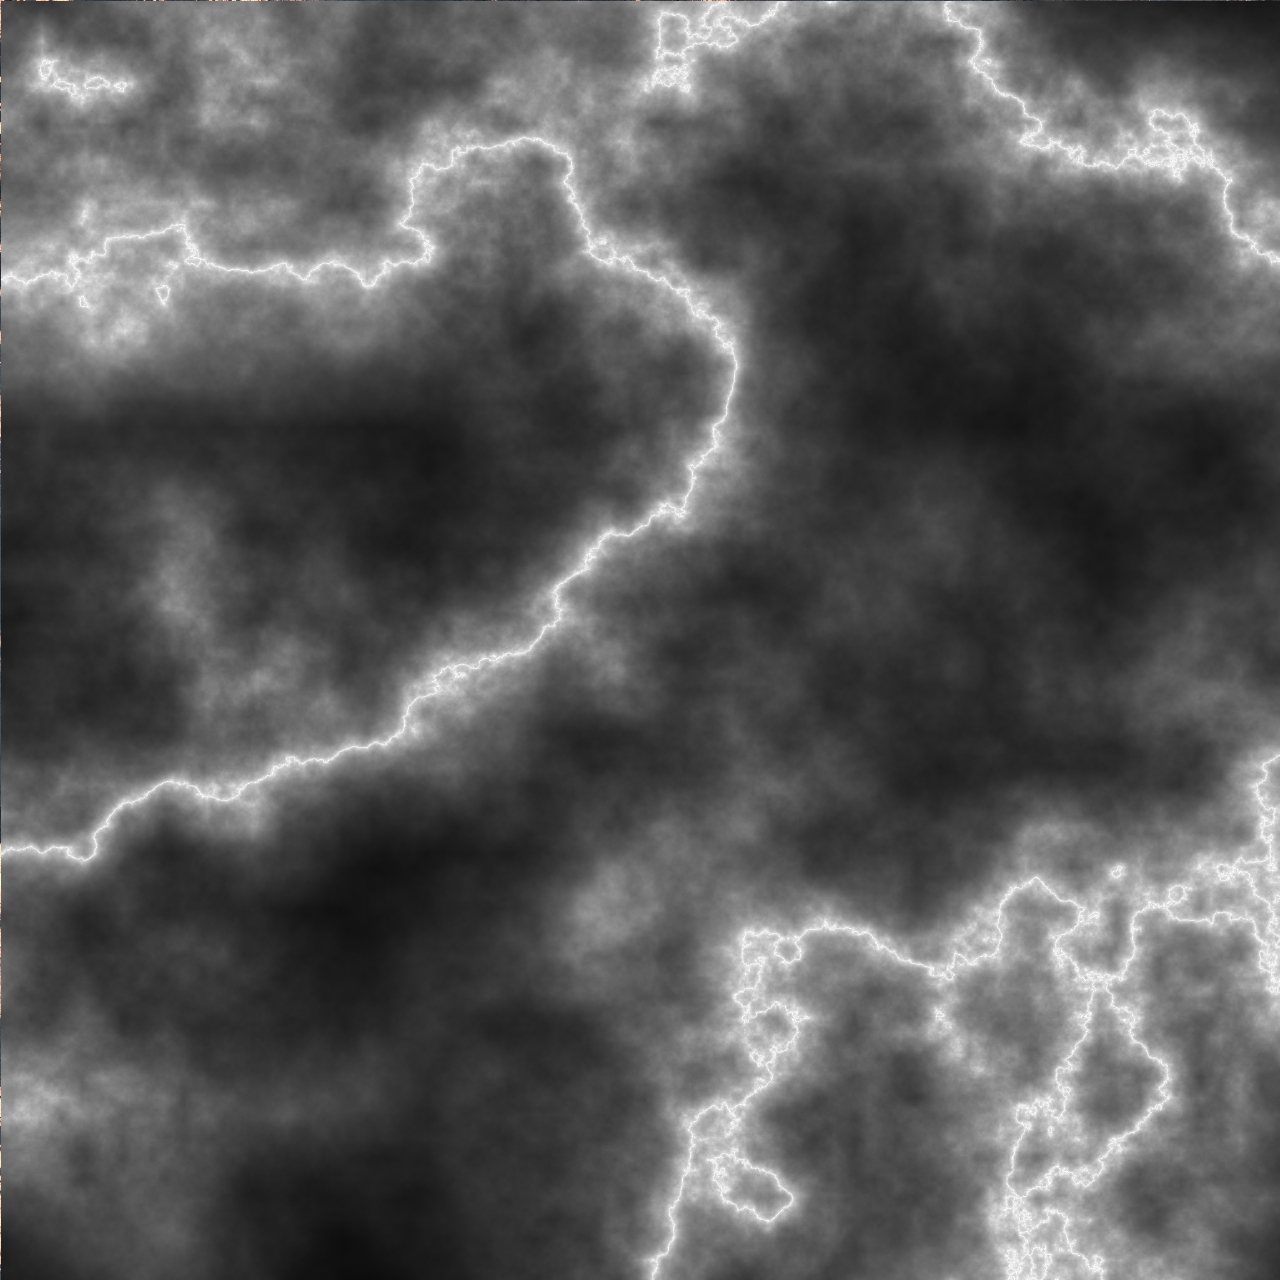
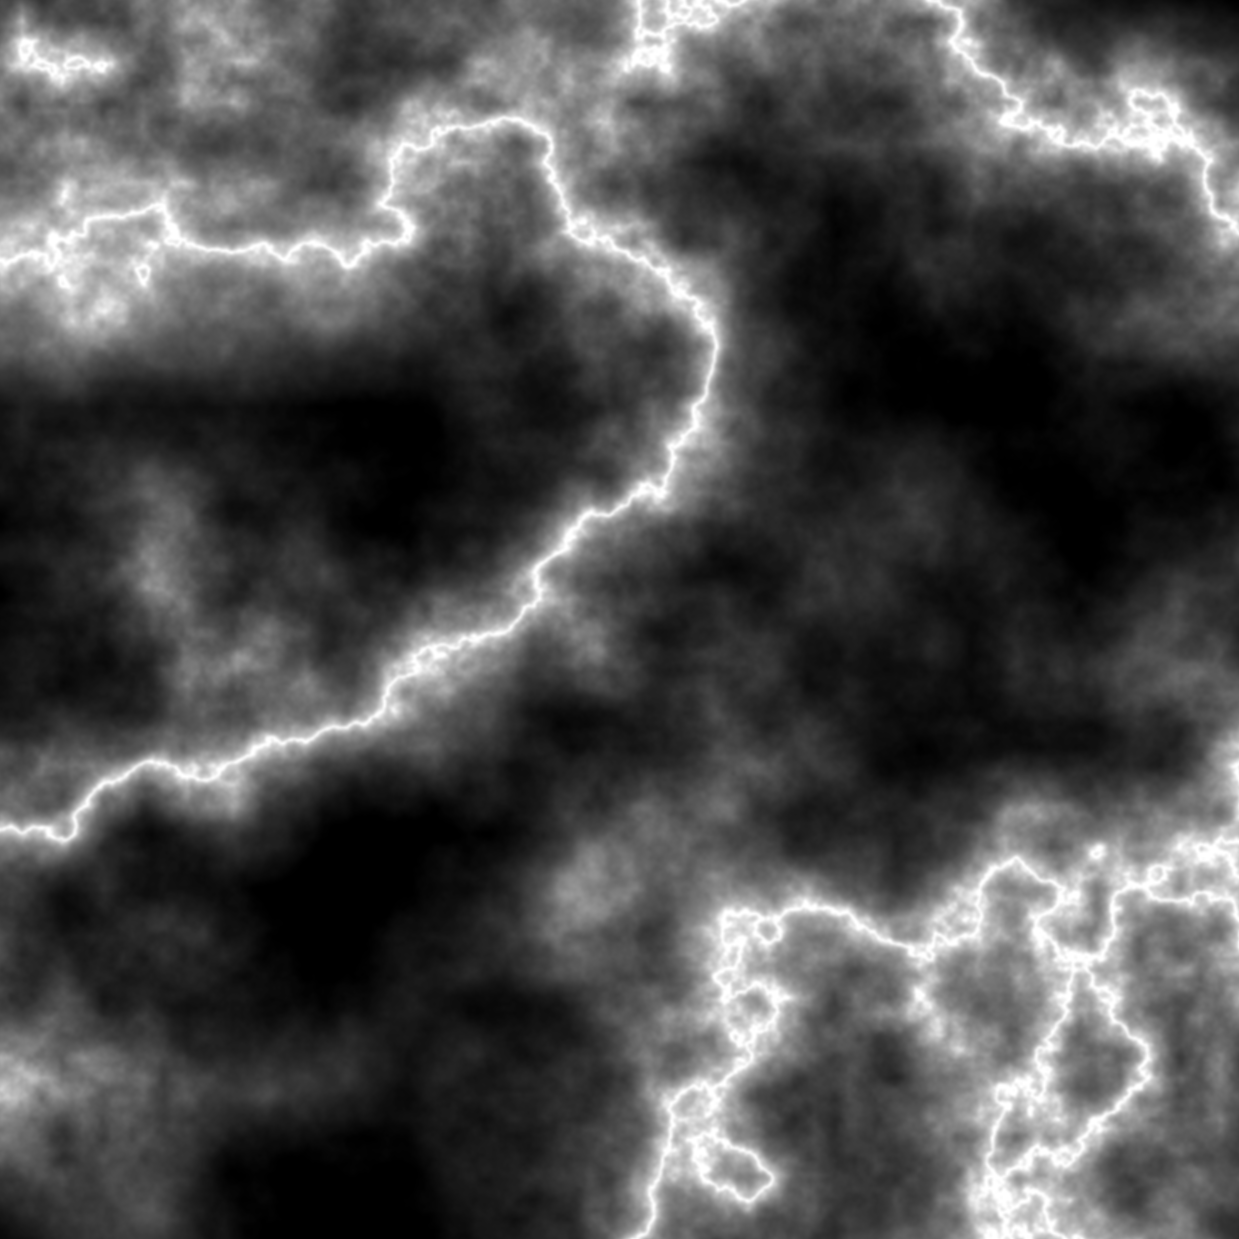
Added lighting and color to the heightmap.
Made mouse act the same in different resolutions.

diff --git a/Canyon/Canyon/Environment/Terrain.cs b/Canyon/Canyon/Environment/Terrain.cs
@@ -3,6 +3,7 @@ using Microsoft.Xna.Framework;
 using Microsoft.Xna.Framework.Content;
 using Microsoft.Xna.Framework.Graphics;
 using Microsoft.Xna.Framework.Input;
+using Canyon.Misc;
 
 
 namespace Canyon.Environment
@@ -12,16 +13,32 @@ namespace Canyon.Environment
         /// <summary>
         /// The Vertex information specific for this terrain.
         /// </summary>
-        struct VertexTerrain : IVertexType
+        private struct VertexTerrain : IVertexType
         {
             public Vector3 Position;
+            public Vector3 Normal;
+            public Vector3 Color;
 
             public static readonly VertexDeclaration VertexDeclaration = new VertexDeclaration
             (
-                new VertexElement(0, VertexElementFormat.Vector3, VertexElementUsage.Position, 0)
+                new VertexElement(0, VertexElementFormat.Vector3, VertexElementUsage.Position, 0),
+                new VertexElement(12, VertexElementFormat.Vector3, VertexElementUsage.Normal, 0),
+                new VertexElement(24, VertexElementFormat.Vector3, VertexElementUsage.Color, 0)
             );
 
             VertexDeclaration IVertexType.VertexDeclaration { get { return VertexDeclaration; } }
+        }
+
+        private struct TerrainTile
+        {
+            public VertexBuffer Buffer;
+            public BoundingBox BoundingBox;
+
+            public TerrainTile(VertexBuffer buffer, BoundingBox boundingBox)
+            {
+                this.Buffer = buffer;
+                this.BoundingBox = boundingBox;
+            }
         }
 
         public int TileSize { get; private set; }
@@ -42,6 +59,7 @@ namespace Canyon.Environment
         private TerrainTile[] tiles;
 
         private BoundingFrustum frustum;
+        private int[] indices;
 
         public Terrain(Game game, string heightmap)
             : base(game)
@@ -73,8 +91,8 @@ namespace Canyon.Environment
             CanyonGame.Console.Debug("Loading heightmap of " + this.heightmap.Width + "x" + this.heightmap.Height + " (TileSize is " + TileSize + ").");
 
             this.LoadData(); // Width and Height are available from here on out.
-            this.LoadVertices();
             this.LoadIndices();
+            this.LoadVertices();
 
             base.LoadContent();
         }
@@ -105,24 +123,52 @@ namespace Canyon.Environment
         }
 
         /// <summary>
+        /// Create and IndexBuffer with the indices of one tile.
+        /// </summary>
+        private void LoadIndices()
+        {
+            int size = TileSize;
+            indices = new int[size * size * 6];
+            int c = 0;
+            for (int y = 0; y < size; y++)
+            {
+                for (int x = 0; x < size; x++)
+                {
+                    int lowerLeft = x + y * (size+1);
+                    int lowerRight = (x + 1) + y * (size + 1);
+                    int topLeft = x + (y + 1) * (size + 1);
+                    int topRight = (x + 1) + (y + 1) * (size + 1);
+
+                    indices[c++] = topLeft;
+                    indices[c++] = lowerRight;
+                    indices[c++] = lowerLeft;
+
+                    indices[c++] = topLeft;
+                    indices[c++] = topRight;
+                    indices[c++] = lowerRight;
+                }
+            }
+
+            index = new IndexBuffer(GraphicsDevice, IndexElementSize.ThirtyTwoBits, indices.Length, BufferUsage.None);
+            index.SetData(indices);
+        }
+
+        /// <summary>
         /// Construct the vertices and the vertexbuffer.
         /// </summary>
         private void LoadVertices()
         {
-
             TileSize = Math.Min(Math.Min(this.Width, this.Height), TileSize);
 
-            int widthInTiles = (int)Math.Ceiling((this.Width-1) / (double)(TileSize));
-            int heightInTiles = (int)Math.Ceiling((this.Height-1) / (double)(TileSize));
+            int widthInTiles = (int)Math.Ceiling((this.Width - 1) / (double)(TileSize));
+            int heightInTiles = (int)Math.Ceiling((this.Height - 1) / (double)(TileSize));
 
             this.tiles = new TerrainTile[widthInTiles * heightInTiles];
-
+            Vector3 color = new Vector3(0xed/255.0f, 0xaa/255.0f, 0x09/255.0f);
             for (int ty = 0; ty < heightInTiles; ty++)
             {
                 for (int tx = 0; tx < widthInTiles; tx++)
                 {
-                    Vector2 position = new Vector2(tx, ty);
-
                     int width = TileSize + 1;
                     int height = TileSize + 1;
 
@@ -138,46 +184,47 @@ namespace Canyon.Environment
                             int ry = (ty * TileSize + y);
                             int ri = rx + ry * this.Width;
                             int i = x + y * width;
-                            vertices[i].Position = new Vector3(rx, data[Math.Min(rx,this.Width-1), Math.Min(ry,this.Height-1)], ry);
+                            vertices[i].Position = new Vector3(rx, data[Math.Min(rx, this.Width - 1), Math.Min(ry, this.Height - 1)], ry);
                             bbmax = Vector3.Max(bbmax, vertices[i].Position);
                             bbmin = Vector3.Min(bbmin, vertices[i].Position);
+
+                            float weight = vertices[i].Position.Y;
+                            weight -= minheight;
+                            weight /= (maxheight - minheight);
+                            weight *= weight;
+                            vertices[i].Color = Vector3.Lerp(color, Vector3.One, weight); 
                         }
                     }
+
+                    this.SetupNormals(vertices);
 
                     VertexBuffer buffer = new VertexBuffer(GraphicsDevice, typeof(VertexTerrain), vertices.Length, BufferUsage.None);
                     buffer.SetData(vertices);
 
-                    tiles[ty * widthInTiles + tx] = new TerrainTile(position, buffer, new BoundingBox(bbmin, bbmax));
+                    tiles[ty * widthInTiles + tx] = new TerrainTile(buffer, new BoundingBox(bbmin, bbmax));
                 }
             }
         }
 
-        private void LoadIndices()
+        private void SetupNormals(VertexTerrain[] vertices)
         {
-            int size = TileSize;
-            int[] indices = new int[size * size * 6];
-            int c = 0;
-            for (int y = 0; y < size; y++)
+            for (int i = 0; i < indices.Length / 3; i++)
             {
-                for (int x = 0; x < size; x++)
-                {
-                    int topLeft = x + y * (size+1);
-                    int topRight = (x + 1) + y * (size + 1);
-                    int lowerLeft = x + (y + 1) * (size + 1);
-                    int lowerRight = (x + 1) + (y + 1) * (size + 1);
+                int index0 = indices[i * 3];
+                int index1 = indices[i * 3 + 1];
+                int index2 = indices[i * 3 + 2];
 
-                    indices[c++] = topLeft;
-                    indices[c++] = lowerRight;
-                    indices[c++] = lowerLeft;
+                Vector3 side0 = vertices[index0].Position - vertices[index2].Position;
+                Vector3 side1 = vertices[index0].Position - vertices[index1].Position;
+                Vector3 normal = Vector3.Cross(side1, side0);
 
-                    indices[c++] = topLeft;
-                    indices[c++] = topRight;
-                    indices[c++] = lowerRight;
-                }
+                vertices[index0].Normal += normal;
+                vertices[index1].Normal += normal;
+                vertices[index2].Normal += normal;
             }
 
-            index = new IndexBuffer(GraphicsDevice, IndexElementSize.ThirtyTwoBits, indices.Length, BufferUsage.None);
-            index.SetData(indices);
+            for (int i = 0; i < vertices.Length; i++)
+                vertices[i].Normal = vertices[i].Normal.SafeNormalize();
         }
 
         protected override void UnloadContent()
@@ -200,12 +247,16 @@ namespace Canyon.Environment
             effect.Parameters["View"].SetValue(CanyonGame.Camera.View);
             effect.Parameters["Projection"].SetValue(CanyonGame.Camera.Projection);
 
+
+            effect.Parameters["LightDirection"].SetValue(new Vector3(-0.5f, -1, -0.5f));
+            effect.Parameters["Ambient"].SetValue(0.2f);
+
             effect.CurrentTechnique.Passes[0].Apply();
 
             RasterizerState rs = new RasterizerState();
             rs.CullMode = CullMode.None;
             rs.FillMode = FillMode.WireFrame;
-            GraphicsDevice.RasterizerState = rs;
+            GraphicsDevice.RasterizerState = RasterizerState.CullClockwise;
             GraphicsDevice.DepthStencilState = DepthStencilState.Default;
 
             GraphicsDevice.Indices = index;

diff --git a/Canyon/Canyon/CameraSystem/DebugCamera.cs b/Canyon/Canyon/CameraSystem/DebugCamera.cs
@@ -105,8 +105,11 @@ namespace Canyon.CameraSystem
             float dx = mouseState.X - center.X;
             float dy = mouseState.Y - center.Y;
 
-            this.HorizontalRotation += -dx * dt;
-            this.VerticalRotation += -dy * dt;
+            float screenFactorX = (500.0f * Game.GraphicsDevice.Viewport.AspectRatio) / Game.GraphicsDevice.Viewport.Width;
+            float screenFactorY = 500.0f / Game.GraphicsDevice.Viewport.Height;
+
+            this.HorizontalRotation += -dx * dt * screenFactorX;
+            this.VerticalRotation += -dy * dt * screenFactorY;
 
             if (kbs.IsKeyDown(Keys.W))
                 this.Position += this.Forward * MoveFactor * dt;

diff --git a/Canyon/Canyon/Misc/Utils.cs b/Canyon/Canyon/Misc/Utils.cs
@@ -11,10 +11,11 @@ namespace Canyon.Misc
         /// Normalize a vector only if the length isn't zero. This makes sure a division by zero doesn't occure.
         /// </summary>
         /// <param name="v">The vector to normalize.</param>
-        public static void SafeNormalize(this Vector3 v)
+        public static Vector3 SafeNormalize(this Vector3 v)
         {
-            if (v.LengthSquared() != 0)
+            if (v.LengthSquared() > 0)
                 v.Normalize();
+            return v;
         }
     }
 }

diff --git a/Canyon/Canyon/Screens/ScreenManager.cs b/Canyon/Canyon/Screens/ScreenManager.cs
@@ -55,10 +55,11 @@ namespace Canyon.Screens
         /// </summary>
         public override void Initialize()
         {
+            base.Initialize();
+            CanyonGame.Console.Trace("ScreenManager initialized.");
             foreach (Screen s in this.screens)
                 s.Initialize();
             this.Initialized = true;
-            base.Initialize();
         }
 
         /// <summary>

diff --git a/Canyon/Canyon/CanyonGame.cs b/Canyon/Canyon/CanyonGame.cs
@@ -28,6 +28,7 @@ namespace Canyon
             Content.RootDirectory = "Content";
 
             // Window and framerate settings:
+            graphics.PreferMultiSampling = true;
 #if !DEBUG
             this.graphics.IsFullScreen = true;
             this.graphics.PreferredBackBufferWidth = GraphicsAdapter.DefaultAdapter.CurrentDisplayMode.Width;
